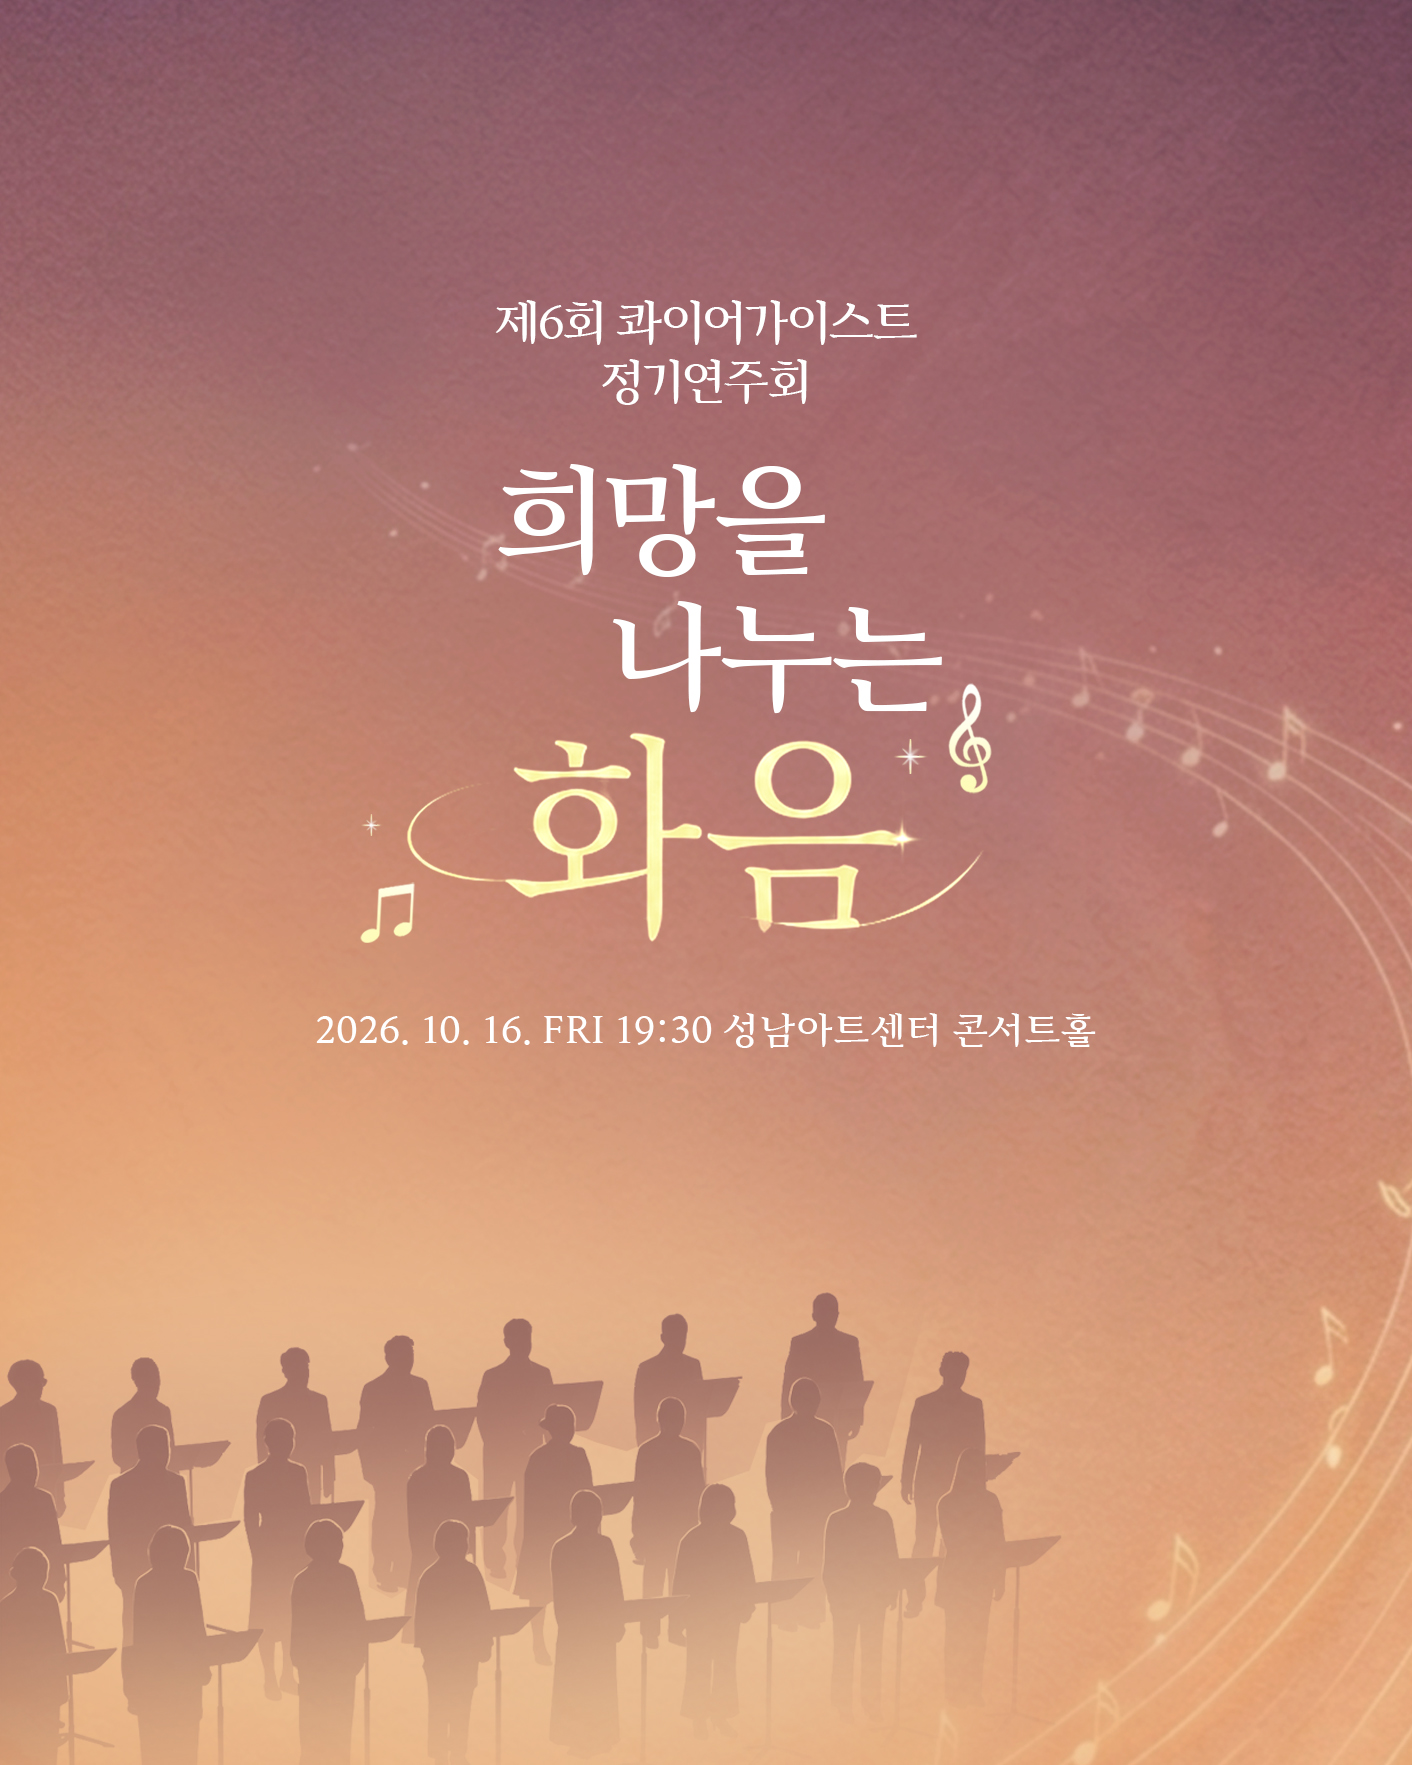
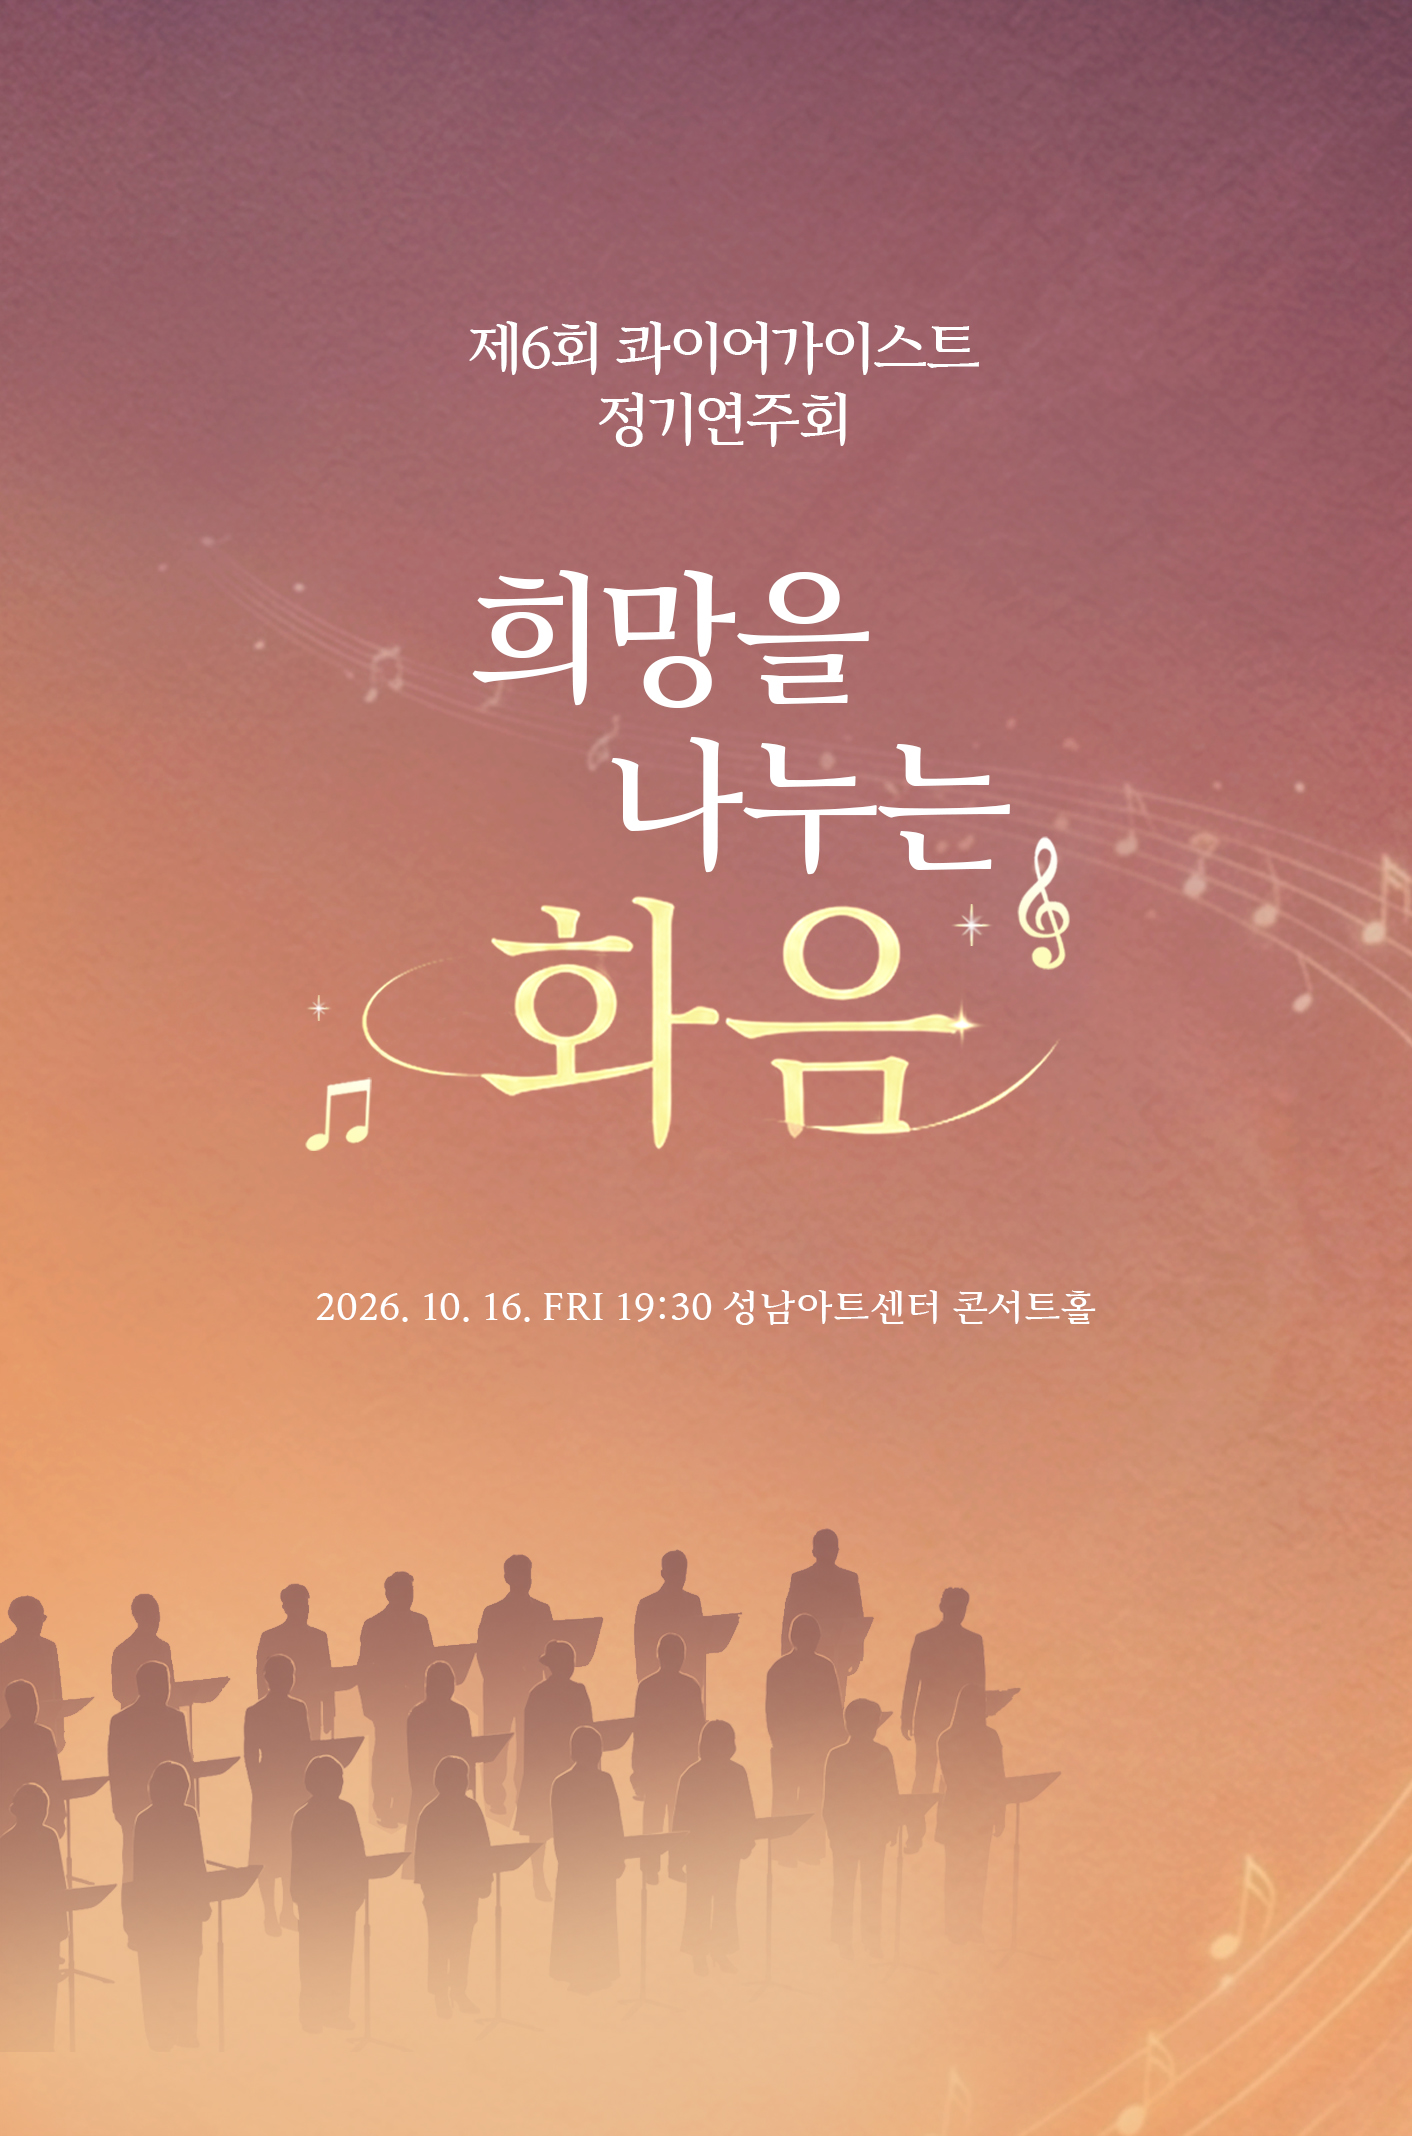
Add files via upload

diff --git a/style.css b/style.css
@@ -72,7 +72,7 @@ a {
 
 .hero-image {
   width: 100%;
-  height: 72vh;
+  height: 100%;
   overflow: hidden;
 }
 
